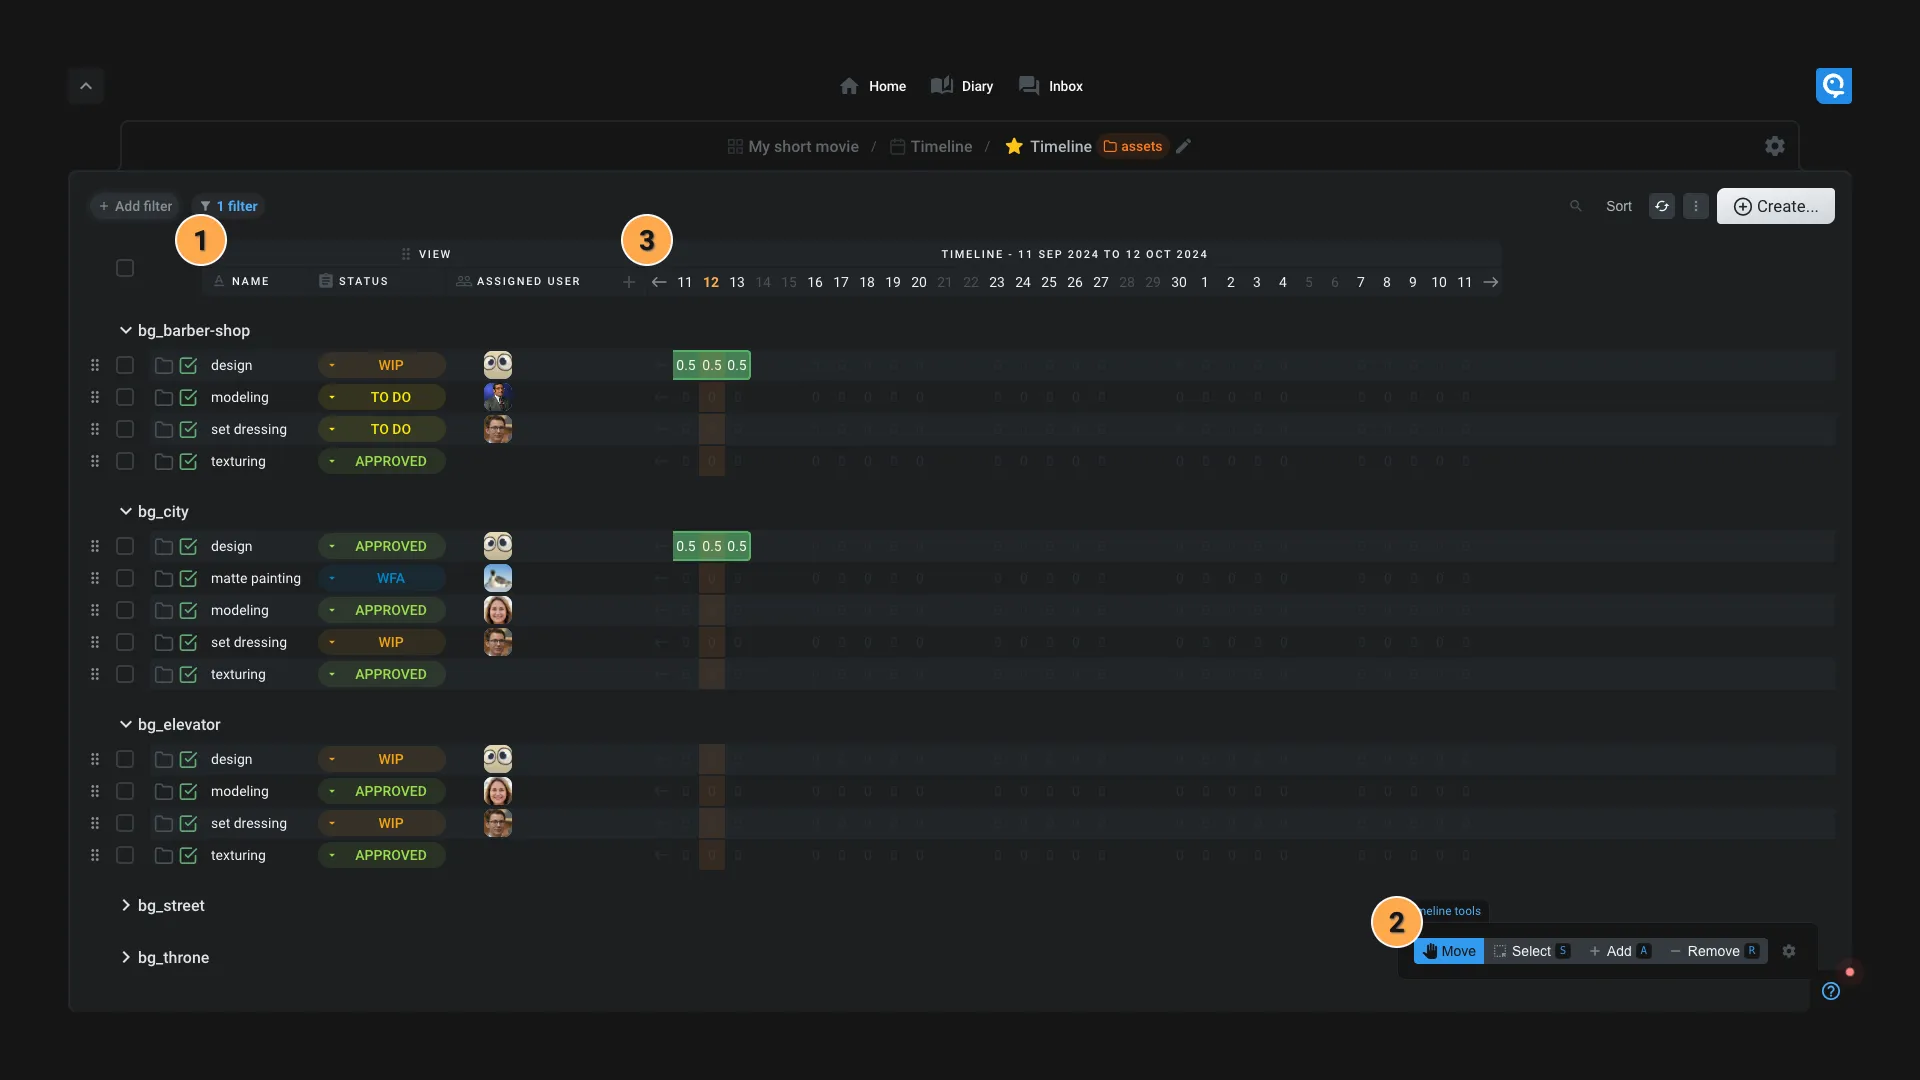
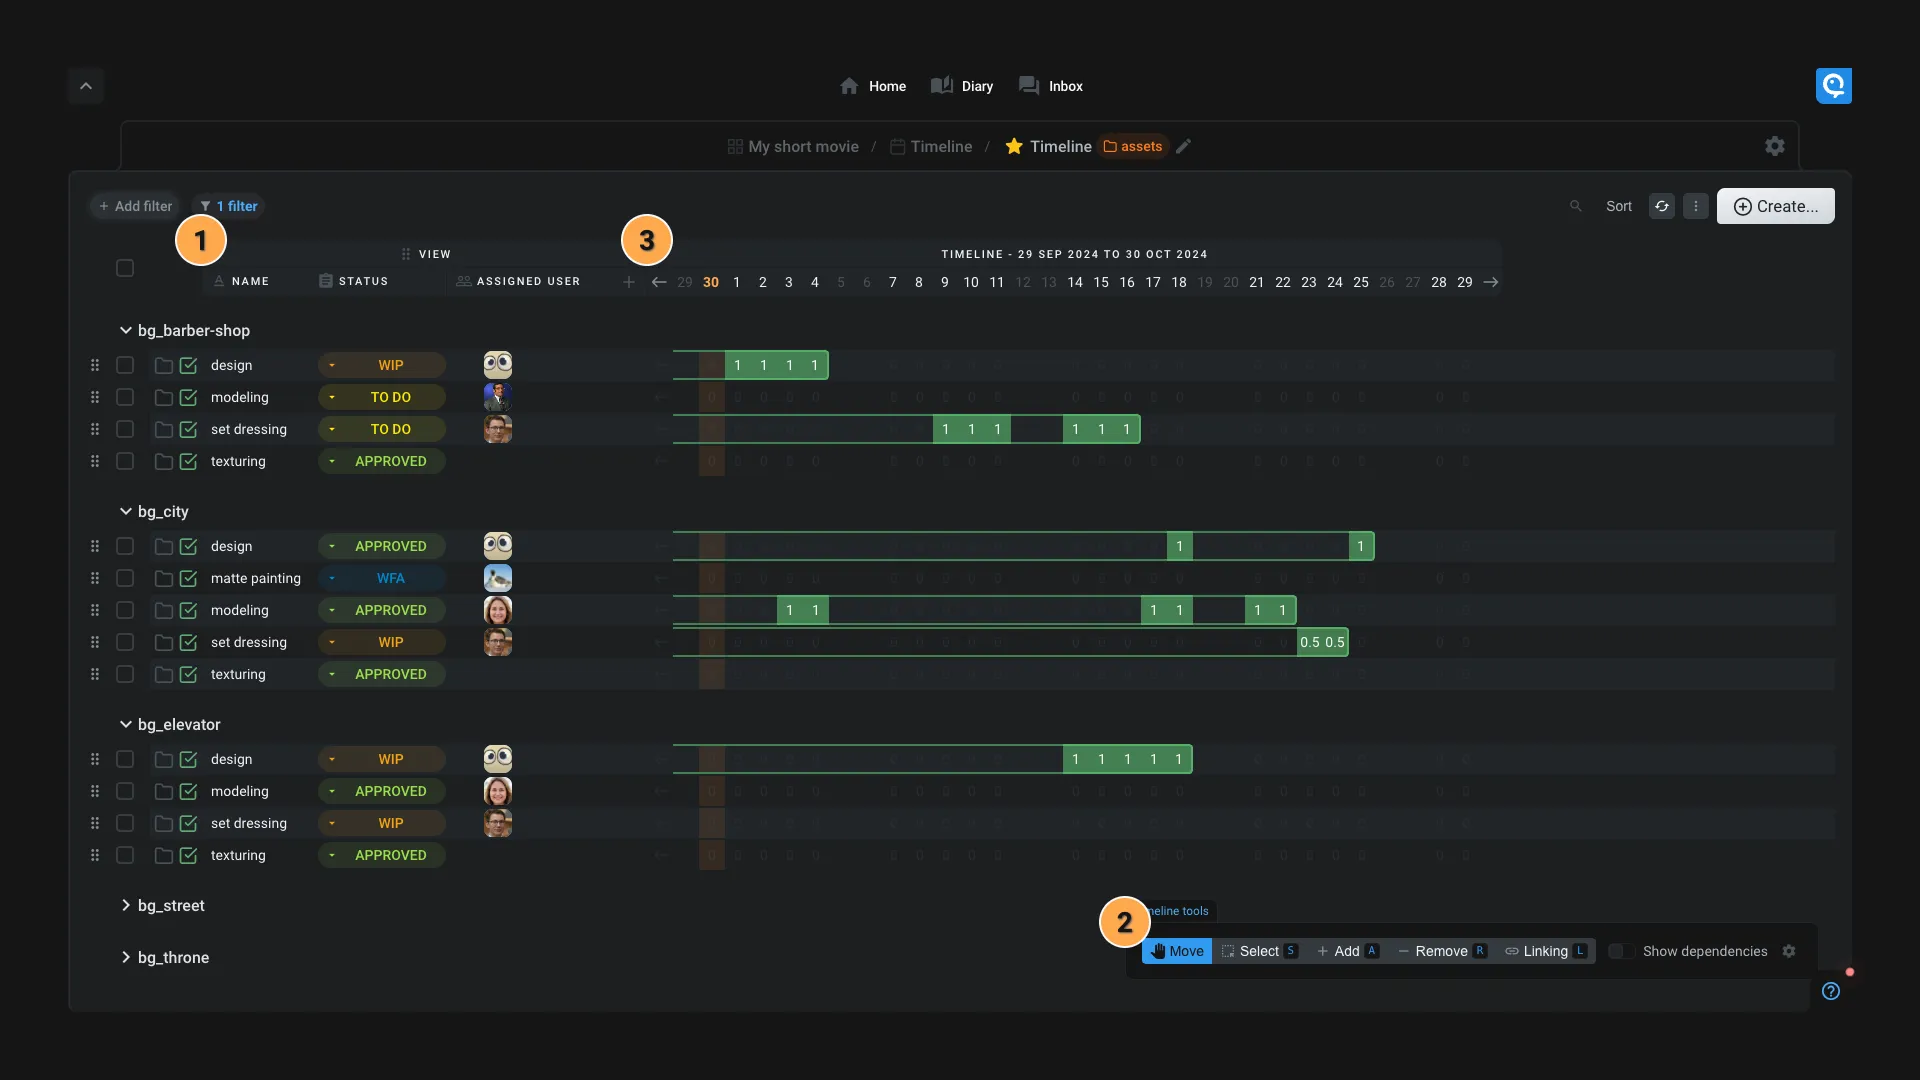
feat: Add new timeline new feature

diff --git a/src/web/workspaces/timeline.md b/src/web/workspaces/timeline.md
@@ -9,18 +9,17 @@ nav_order: 10
 
 This workspace is dedicated to display tasks and define schedules.
 
-> [!warning]
-> This workspace is still in beta. If you have any feedback or suggestions, please [let us know](/contact).
-
 ![Timeline](/_medias/screenshots/timeline.webp)
 
-1. **Add you columns**: Define the columns you want to see in your workspace. You can choose between our presets or create your own custom column. To create a custom column, follow our [guide](../../../how-to/create/column).
+1. **Add your columns**: Define the columns you want to see in your workspace. You can choose between our presets or create your own custom column. To create a custom column, follow our [guide](../../../how-to/create/column).
 2. **Choose your tool**: Enable the tools you want to use in your schedule:
    1. **Move**: Allow you to move across time or if some days are selected move the selected days
-   2. **Select**: Allow you to select a range of days
-   3. **Add**: Allow you to "paint" time assignments
-   4. **Remove**: Allow you to remove time assignments
-   5. Click on the <span class="aq-icon">settings</span> icon to access the settings of the timeline
+   2. **Select**: Allow you to select a range of days. You can also double-click on a task to select all days of the task directly. Double-click after/before task to unselect all. Use `SHIFT` or `CTRL` to select multiple ranges/tasks.
+   3. **Add**: Allow you to "paint" time assignments by clicking or "painting" over the cells. You can right click on a cell to remove the time assignment instead.
+   4. **Remove**: Allow you to remove time assignments and dependencies.
+   5. **Linking**: Allow you to create dependency links between tasks. Enable this tool and drag n drop a task on another to create a dependency.
+   6. **Show dependencies**: Enable this option to visualize the dependencies between tasks
+   7. Click on the <span class="aq-icon">settings</span> icon to access the settings of the timeline
 3. **The timeline**: Each cell correspond to a day. Be default the number is in `day` but you can switch to `hour` from the settings.
 
 > [!note]
@@ -30,5 +29,14 @@ This workspace is dedicated to display tasks and define schedules.
 > - `S` for Select
 > - `A` for Add
 > - `R` for Remove
+> - `L` to link tasks and create dependencies
+> - `T` to center the view on Today
+> - `D` to show/hide dependencies
+
+If you want to display more days in the calendar, you can expand the size of the column called "Timeline", by dragging the handle located at the end of the column.
+
+## Expand and reduce your tasks
+
+By hovering a task, you can expand or reduce its duration. Grab the handle located at the beginning or the end of the task and drag it to the desired date.
 
 Checkout [general information about workspace](/web/workspaces) to know how to filter, sort, and group your data.
